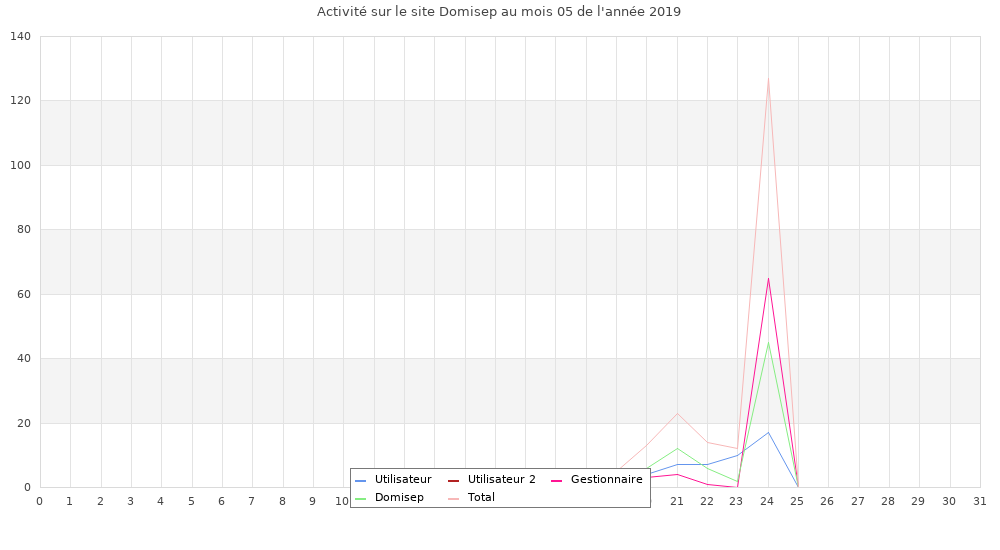
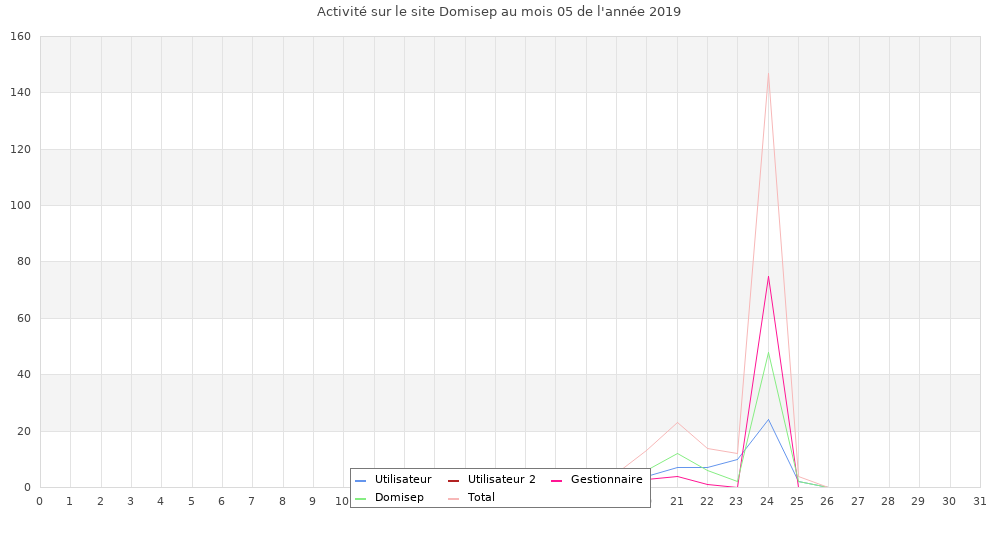
Correction bugs + modif graph domisep

diff --git a/controller/functions.php b/controller/functions.php
@@ -134,7 +134,7 @@ function seeAccueilDomisep() {
     require ("view/AccueilDomisep.php");
 }
 
-function seeStatistiquesDomisep() {
+function seeStatistiquesDomisep($datay1,$datay2,$datay3,$datay4,$datay5) {
     require ("view/hefonaDomisep.php");
     require ("view/StatistiquesDomisep.php");
 }
@@ -199,7 +199,7 @@ function calculActivite($bdd,$typeUser,$mois,$annee){
         for($i=1;$i<$taille;$i++) 
         { 
             $day="$i/$mois/$annee";
-            $activite[$i] = comptConnexionTypeUser($bdd,$day,$typeUser);
+            array_push($activite, comptConnexionTypeUser($bdd,$day,$typeUser));
         } 
     }
     else if ($mois==4||$mois==6||$mois==9||$mois==11){
@@ -207,7 +207,7 @@ function calculActivite($bdd,$typeUser,$mois,$annee){
         for($i=1;$i<$taille;$i++) 
         { 
             $day="$i/$mois/$annee";
-            $activite[$i] = comptConnexionTypeUser($bdd,$day,$typeUser);
+            array_push($activite, comptConnexionTypeUser($bdd,$day,$typeUser));
         } 
     }
     else if ($mois==2){
@@ -216,14 +216,14 @@ function calculActivite($bdd,$typeUser,$mois,$annee){
             for($i=1;$i<$taille;$i++) 
             { 
                 $day="$i/$mois/$annee";
-                $activite[$i] = comptConnexionTypeUser($bdd,$day,$typeUser);
+                array_push($activite, comptConnexionTypeUser($bdd,$day,$typeUser));
             } 
         } else {
             $taille = 30;
             for($i=1;$i<$taille;$i++) 
             { 
                 $day="$i/$mois/$annee";
-                $activite[$i] = comptConnexionTypeUser($bdd,$day,$typeUser);
+                array_push($activite, comptConnexionTypeUser($bdd,$day,$typeUser));
             } 
         }
     }
@@ -237,7 +237,7 @@ function calculActiviteTotale($bdd,$mois,$annee){
         for($i=1;$i<$taille;$i++) 
         { 
             $day="$i/$mois/$annee";
-            $activite[$i] = comptConnexion($bdd,$day);
+            array_push($activite, comptConnexion($bdd,$day,$typeUser));
         } 
     }
     else if ($mois==4||$mois==6||$mois==9||$mois==11){
@@ -245,7 +245,7 @@ function calculActiviteTotale($bdd,$mois,$annee){
         for($i=1;$i<$taille;$i++) 
         { 
             $day="$i/$mois/$annee";
-            $activite[$i] = comptConnexion($bdd,$day);
+            array_push($activite, comptConnexion($bdd,$day,$typeUser));
         } 
     }
     else if ($mois==2){
@@ -254,14 +254,14 @@ function calculActiviteTotale($bdd,$mois,$annee){
             for($i=1;$i<$taille;$i++) 
             { 
                 $day="$i/$mois/$annee";
-                $activite[$i] = comptConnexion($bdd,$day);
+                array_push($activite, comptConnexion($bdd,$day,$typeUser));
             } 
         } else {
             $taille = 30;
             for($i=1;$i<$taille;$i++) 
             { 
                 $day="$i/$mois/$annee";
-                $activite[$i] = comptConnexion($bdd,$dayr);
+                array_push($activite, comptConnexion($bdd,$day,$typeUser));
             } 
         }
     }

diff --git a/controller/domisep.php b/controller/domisep.php
@@ -27,62 +27,8 @@ if (isset($_GET["action"])) {
         $datay2 = calculActivite($bdd,"2",$mois,$annee);
         $datay3 = calculActivite($bdd,"3",$mois,$annee);
         $datay4 = calculActivite($bdd,"4",$mois,$annee);
-        $datay5 = calculActiviteTotale($bdd,$mois,$annee);
-        
-        // Setup the graph
-        $graph = new Graph(1000,550);
-        $graph->SetScale("textlin");
-        
-        $theme_class=new UniversalTheme;
-        
-        $graph->SetTheme($theme_class);
-        $graph->img->SetAntiAliasing(false);
-        $graph->title->Set("Activité sur le site Domisep au mois $mois de l'année $annee");
-        
-        $graph->SetMargin(40,20,36,63);
-        
-        $graph->img->SetAntiAliasing();
-        
-        $graph->yaxis->HideZeroLabel();
-        $graph->SetScale("int");
-        $graph->yaxis->HideLine(false);
-        
-        $graph->xgrid->Show();
-        $graph->xgrid->SetLineStyle("solid");
-        $graph->xgrid->SetColor('#E3E3E3');
-        
-        $p1 = new LinePlot($datay1);
-        $graph->Add($p1);
-        $p1->SetColor("#6495ED");
-        $p1->SetLegend('Utilisateur');
-        
-        $p2 = new LinePlot($datay2);
-        $graph->Add($p2);
-        $p2->SetColor("#B22222");
-        $p2->SetLegend('Utilisateur 2');
-        
-        $p3 = new LinePlot($datay3);
-        $graph->Add($p3);
-        $p3->SetColor("#FF1493");
-        $p3->SetLegend('Gestionnaire');
-
-        $p4 = new LinePlot($datay4);
-        $graph->Add($p4);
-        //$p4->SetColor("#FF1493");
-        $p4->SetLegend('Domisep');
-
-        $p5 = new LinePlot($datay5);
-        $graph->Add($p5);
-        //$p5->SetColor("#FF1493");
-        $p5->SetLegend('Total');
-        
-        $graph->legend->SetFrameWeight(1);
-        
-        // Output line
-        @unlink("view/Images/graphique_test.png");
-        $graph->Stroke('view/Images/graphique_test.png');
-        
-        seeStatistiquesDomisep();
+        $datay5 = calculActiviteTotale($bdd,$mois,$annee); 
+        seeStatistiquesDomisep($datay1,$datay2,$datay3,$datay4,$datay5);
         break;
 
     case "see_Gestionnaires_Domisep":

diff --git a/view/StatistiquesDomisep.php b/view/StatistiquesDomisep.php
@@ -12,7 +12,7 @@
     #ligne {display :table;margin: auto;font-size: 22px;}
     #Recap {text-align: center;margin:auto;font-size: 28px;}
     #Construction {}
-    .Graph {width : 60%;margin: auto;margin-top: 2%;background-color:rgb(255, 255, 255,0.7);border-radius: 10px; padding: 2%;}
+    .Graph {height :65%;width : 60%;margin: auto;margin-top: 2%;background-color:rgb(255, 255, 255,0.7);border-radius: 10px; padding: 2%;}
 </style>
 <script src="view/Chart.bundle.js"></script>
 <html>
@@ -86,18 +86,18 @@ if (isset($_POST["mois"])) {
 <script>
 
 var ctx = document.getElementById('myChart').getContext('2d');
+<?php $data1 = json_encode($datay5); ?>
 var chart = new Chart(ctx, {
     type: 'line',
-
+    
     data: {
         labels: ['1','2','3','4','5','6','7','8','9','10','11','12','13','14','15','16','17','18','19','20','21','22','23','24','25','26','27','28','29','30','31'],
         datasets: [{
-            label: 'Nombre de connexion Gestionnaire',
+            label: 'Nombre de connexion totale sur domisep.site',
             backgroundColor: 'grey',
             borderColor: 'white',
-            data: [0, 10, 5, 2, 20, 30, 35, 2, 5, 9, 18, 0, 2, 20, 30, 25, 19, 0, 5, 45, 35, 12]
-        }]
-        
+            data: <?= $data1 ?>
+        }]  
     },
 
     options: {}
